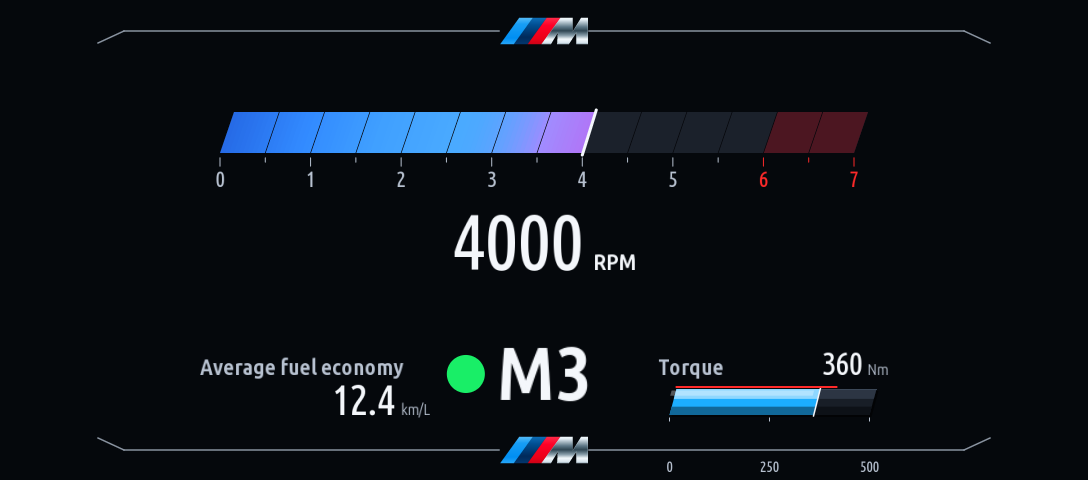
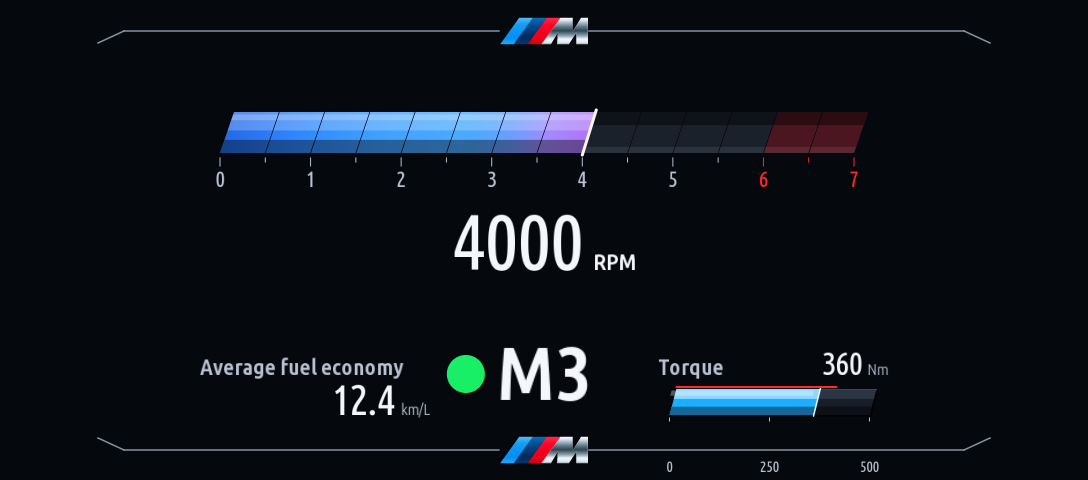
Cluster Redline 1.2.4: depth on the cluster RPM bar
Lit/gloss top and shaded bottom on the cluster RPM fill and an inner
shadow on the track, drawn as whole-length translucent overlays so the
colour slices keep no seams. The HUD RPM bar stays flat because dark
shading dims a HUD. Regenerated gallery screenshots.

Validation: 43 of 46 Cluster Redline host suites pass against the built
1.2.4 package (handoff takes the client file path, not the stage). The 3
remaining suites need the original idrive7-apps project with
kit/tools/hu-stub or assert the retired 'panel' default; they fail the
same way on main. Store package test passes.

Claude-Session: https://claude.ai/code/session_01LR6i2TaKByy8pUNu1Vx1YG

Changed region(s): [[0.1875, 0.2188, 0.5625, 0.3438], [0.7188, 0.2188, 0.8125, 0.2812]]

diff --git a/apps/cluster_redline/draw.js b/apps/cluster_redline/draw.js
@@ -19,6 +19,12 @@ function frame(cv, cfg, y, lower) {
     });
     part(cv,cfg,'cluster',key,{x:W/2-44,y:y-14,w:88,h:28},c=>{if(!cfg['cluster'+key+'Hidden'])drawMark(c,W/2,y-14);});
 }
+// Depth for the cluster RPM bar: whole-length translucent overlays on the flat bands,
+// so the colour slices keep no seams (lit/gloss top and shaded bottom on the fill,
+// inner shadow on the track). The HUD keeps its flat bar (dark overlays dim a HUD).
+function shade(c,x0,x1,top,bottom,slant,t0,t1,col){if(x1<=x0)return;const h=bottom-top,a=slant*(1-t0),b=slant*(1-t1);c.quad([[x0+a,top+h*t0],[x1+a,top+h*t0],[x1+b,top+h*t1],[x0+b,top+h*t1]],col);}
+function lit(c,x0,x1,top,bottom,slant){shade(c,x0,x1,top,bottom,slant,0,0.45,'#ffffff3a');shade(c,x0,x1,top,bottom,slant,0.06,0.2,'#ffffff3c');shade(c,x0,x1,top,bottom,slant,0.68,1,'#00000066');}
+function recess(c,x0,x1,top,bottom,slant){shade(c,x0,x1,top,bottom,slant,0,0.32,'#00000070');shade(c,x0,x1,top,bottom,slant,0.85,1,'#ffffff14');}
 function draw(state,target) {
     if(!target&&state.renderCache){state.renderCache.begin(W,H);state.renderCache.face(module.exports,state,{x:0,y:0,w:W,h:H},'cluster');return state.renderCache.finish();}
     const cv=target||new Canvas(W,H),cfg=state.config,rpm=state.rpm;
@@ -26,11 +32,12 @@ function draw(state,target) {
     frame(cv,cfg,L.upperFrame,false);frame(cv,cfg,450,true);
     const span=L.right-L.left-L.slant;
     const gaugeBounds={x:204,y:L.top-5,w:680,h:90},band=(c,a,b,color)=>{if(b<=a)return;const xa=L.left+span*a/cfg.maxRpm,xb=L.left+span*b/cfg.maxRpm;c.quad([[xa+L.slant,L.top],[xb+L.slant,L.top],[xb,L.bottom],[xa,L.bottom]],color);};
-    part(cv,cfg,'cluster','RpmGauge',gaugeBounds,c=>{band(c,0,cfg.maxRpm,C.track);band(c,cfg.redlineRpm,cfg.maxRpm,'#4c1621');},'track');
+    part(cv,cfg,'cluster','RpmGauge',gaugeBounds,c=>{band(c,0,cfg.maxRpm,C.track);band(c,cfg.redlineRpm,cfg.maxRpm,'#4c1621');recess(c,L.left,L.left+span,L.top,L.bottom,L.slant);},'track');
     part(cv,cfg,'cluster','RpmGauge',gaugeBounds,c=>{
         const polygon=(a,b,color)=>{if(b<=a)return;const xa=L.left+span*a/cfg.maxRpm,xb=L.left+span*b/cfg.maxRpm;c.quad([[xa+L.slant,L.top],[xb+L.slant,L.top],[xb,L.bottom],[xa,L.bottom]],color);};
         const top=clamp(rpm,0,cfg.maxRpm);
         for(let r=0;r<top;r+=50)polygon(r,Math.min(r+75,top),rpmColors.colorAt(r,cfg));
+        if(top>0)lit(c,L.left,L.left+span*top/cfg.maxRpm,L.top,L.bottom,L.slant);
     },'fill');
     part(cv,cfg,'cluster','RpmGauge',gaugeBounds,c=>{
         for(let r=500;r<cfg.maxRpm;r+=500){const x=L.left+span*r/cfg.maxRpm;c.line(x+L.slant,L.top,x,L.bottom,0.7,'#05060a');}

diff --git a/CHANGELOG.md b/CHANGELOG.md
@@ -19,6 +19,7 @@ Version history is kept here. For current usage, see [Cluster Redline](docs/CLUS
 - Paint the lane row directly at its HUD size instead of resampling a 240x72 image to the selected scale, which dropped pixel rows/columns and broke thin strokes. Lane data, recommendation colours, freshness rules and positions are unchanged.
 - Simplified road diagrams on the HUD for forks, branches, roundabouts (exit number), highway entries/exits, keep-on-main-road and lane changes; plain turns, U-turns and arrivals keep the large arrow. The vehicle data has no junction geometry, so shapes are generic (unused roads are faint). Direction and text tiles also paint at HUD size.
 - Sharper small text: area-averaged glyph reduction and a thicker Korean face where bold is requested (the Korean atlas has one 36 px regular size). HUD auxiliary labels/units/scale numbers are larger (15.4/12.1/13.2 → 19/14/15 px) and a long label shrinks instead of colliding with its value.
+- Cluster RPM bar gets depth (lit and glossy top, shaded bottom, recessed track) using whole-length overlays; the HUD bar stays flat because dark shading dims a HUD.
 - Auxiliary gauges get depth (lit top, shaded bottom, gloss, shadow on the cluster); oil/outside temperature use a glass thermometer with a red liquid column and scale marks.
 - New gauge-only Clock item (HH:MM) for HUD and cluster, one auxiliary slot; time from the head unit or a fixed UTC+9 choice in the gauge picker.
 - Shift alert follows the drive mode: Sport (and unknown) keeps 65/85/100 % of the shift RPM; Comfort/Eco and other modes use 90 % of it (Petrol 5500 → 5000) with lights from 50 % (2500), yellow from 80 % (4000) and red at 100 % (5000).

diff --git a/docs/CLUSTER-REDLINE.md b/docs/CLUSTER-REDLINE.md
@@ -131,7 +131,7 @@ The custom settings UI no longer refreshes the unused generic HMI settings page.
 - **HUD lanes:** stock lane-board style with one arrow size for any lane count, painted at HUD size (no resampling).
 - **Junction diagrams:** forks, branches, roundabouts (exit number), highway entries/exits, keep-on-main-road and lane changes show a simplified road; plain turns, U-turns and arrivals keep the large arrow. Shapes are generic because the vehicle data has no junction geometry.
 - **Text:** sharper small Korean text, larger HUD auxiliary labels; long labels shrink instead of colliding with values.
-- **Gauges:** depth shading; oil/outside temperature as a glass thermometer.
+- **Gauges:** depth shading on the cluster RPM bar and auxiliary gauges (HUD RPM bar stays flat for brightness); oil/outside temperature as a glass thermometer.
 - **Clock:** gauge-only HH:MM item in one auxiliary slot; choose head-unit time or UTC+9 in the gauge picker.
 - **Shift alert:** Sport unchanged; Comfort/Eco and other modes use 90 % of the shift RPM with 50/80/100 % green/yellow/red.
 - **Position / size:** Save / load (three slots) and two-press reset; the selected part is drawn while adjusting even when hidden or without guidance (expires two minutes after the last edit, clears on Back).
